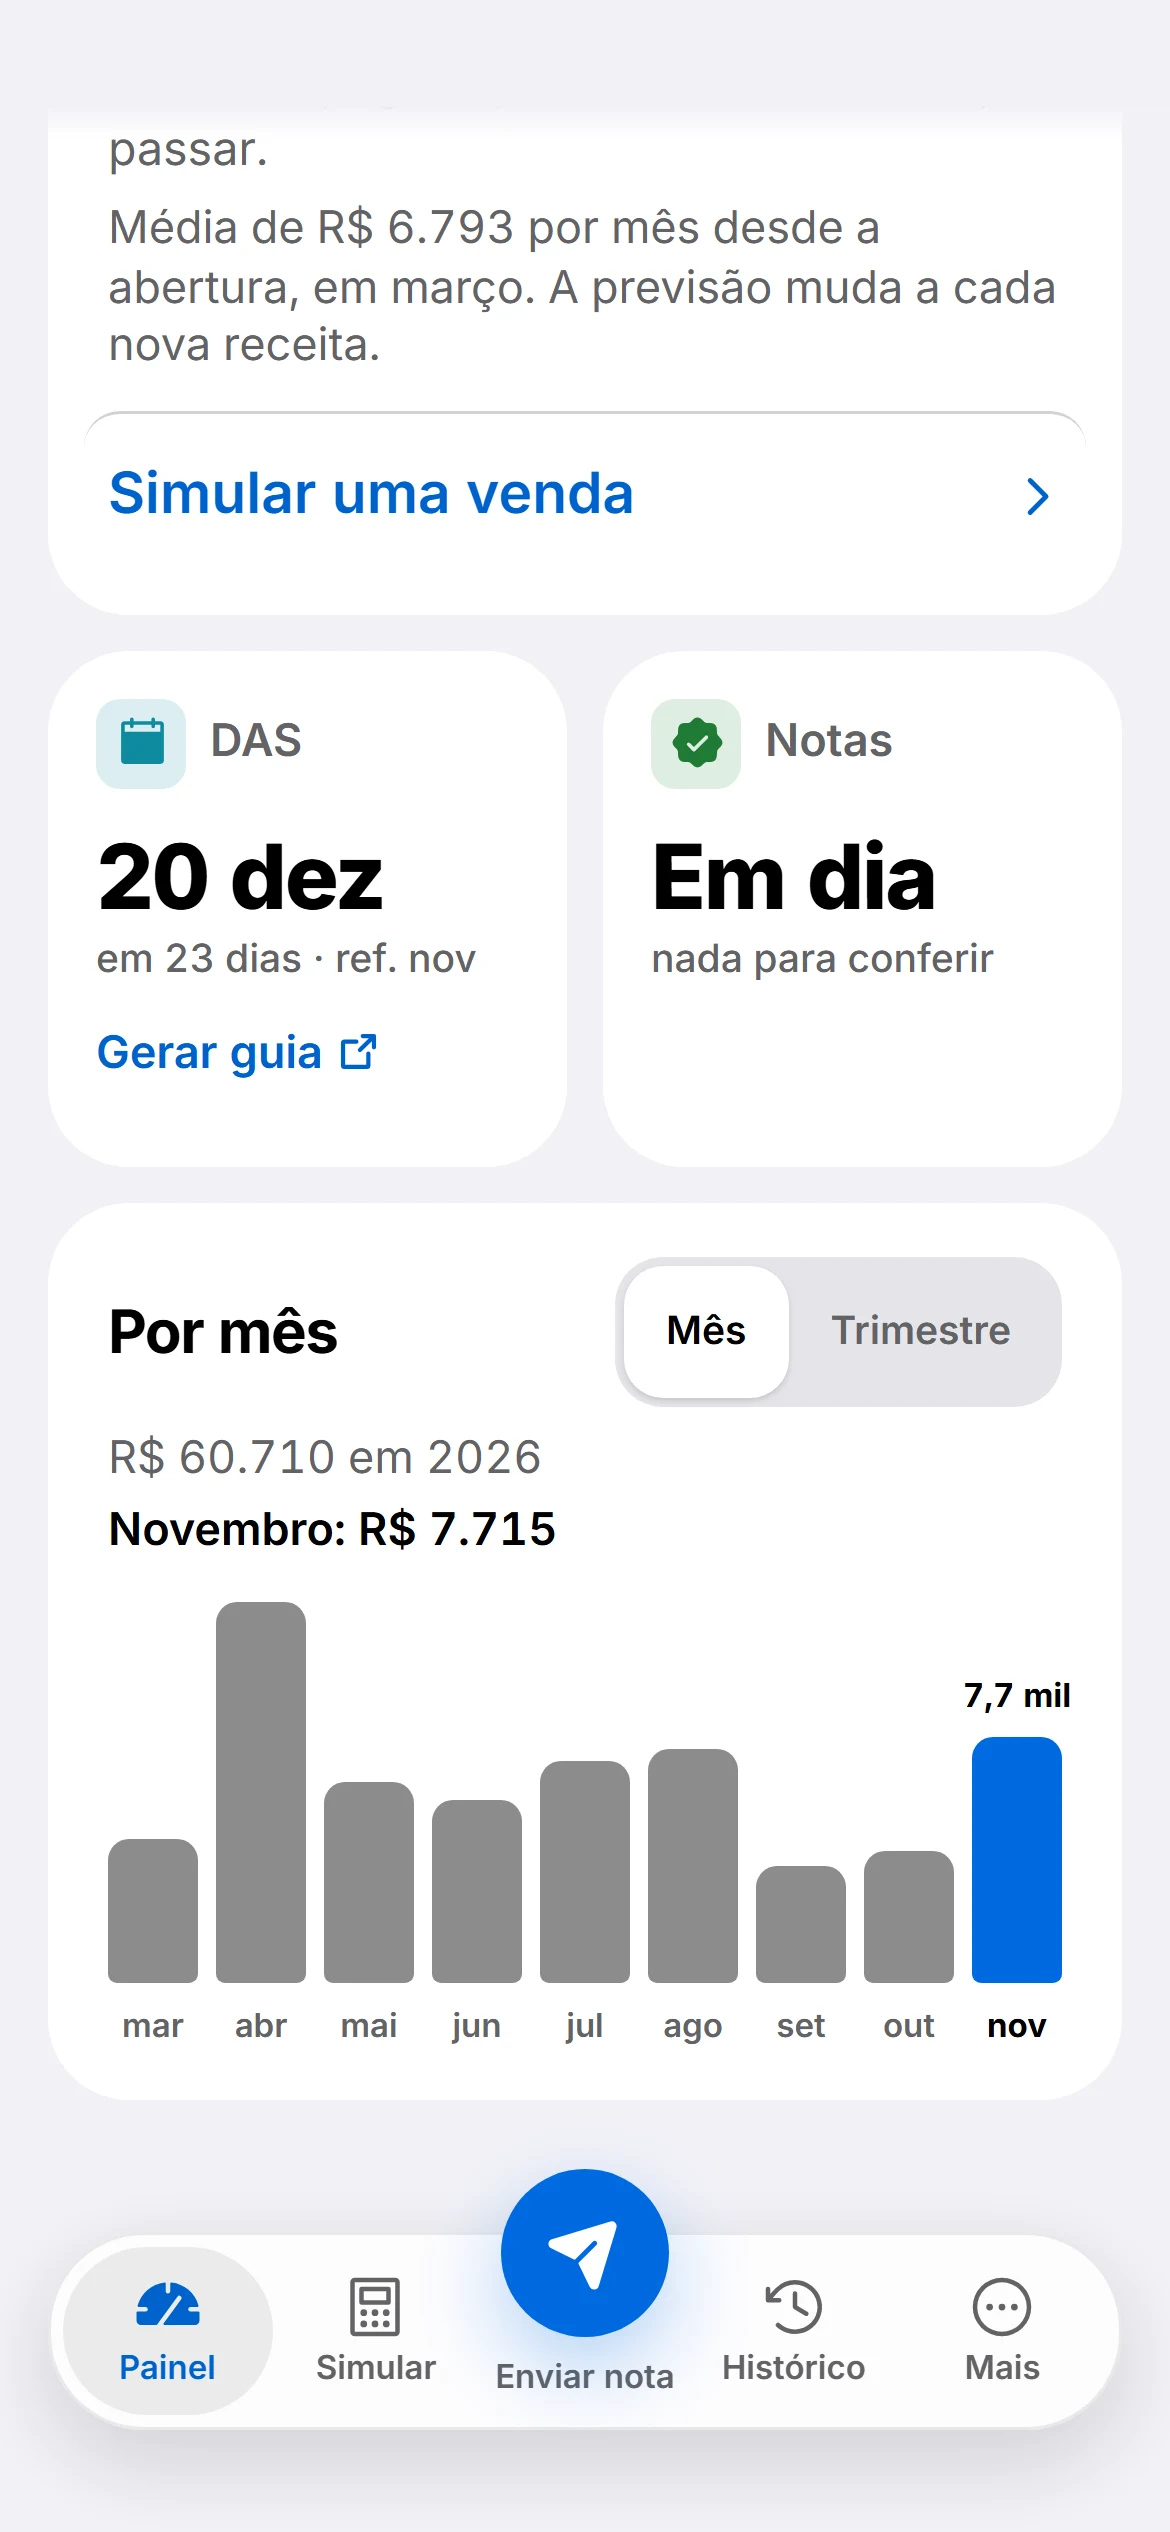
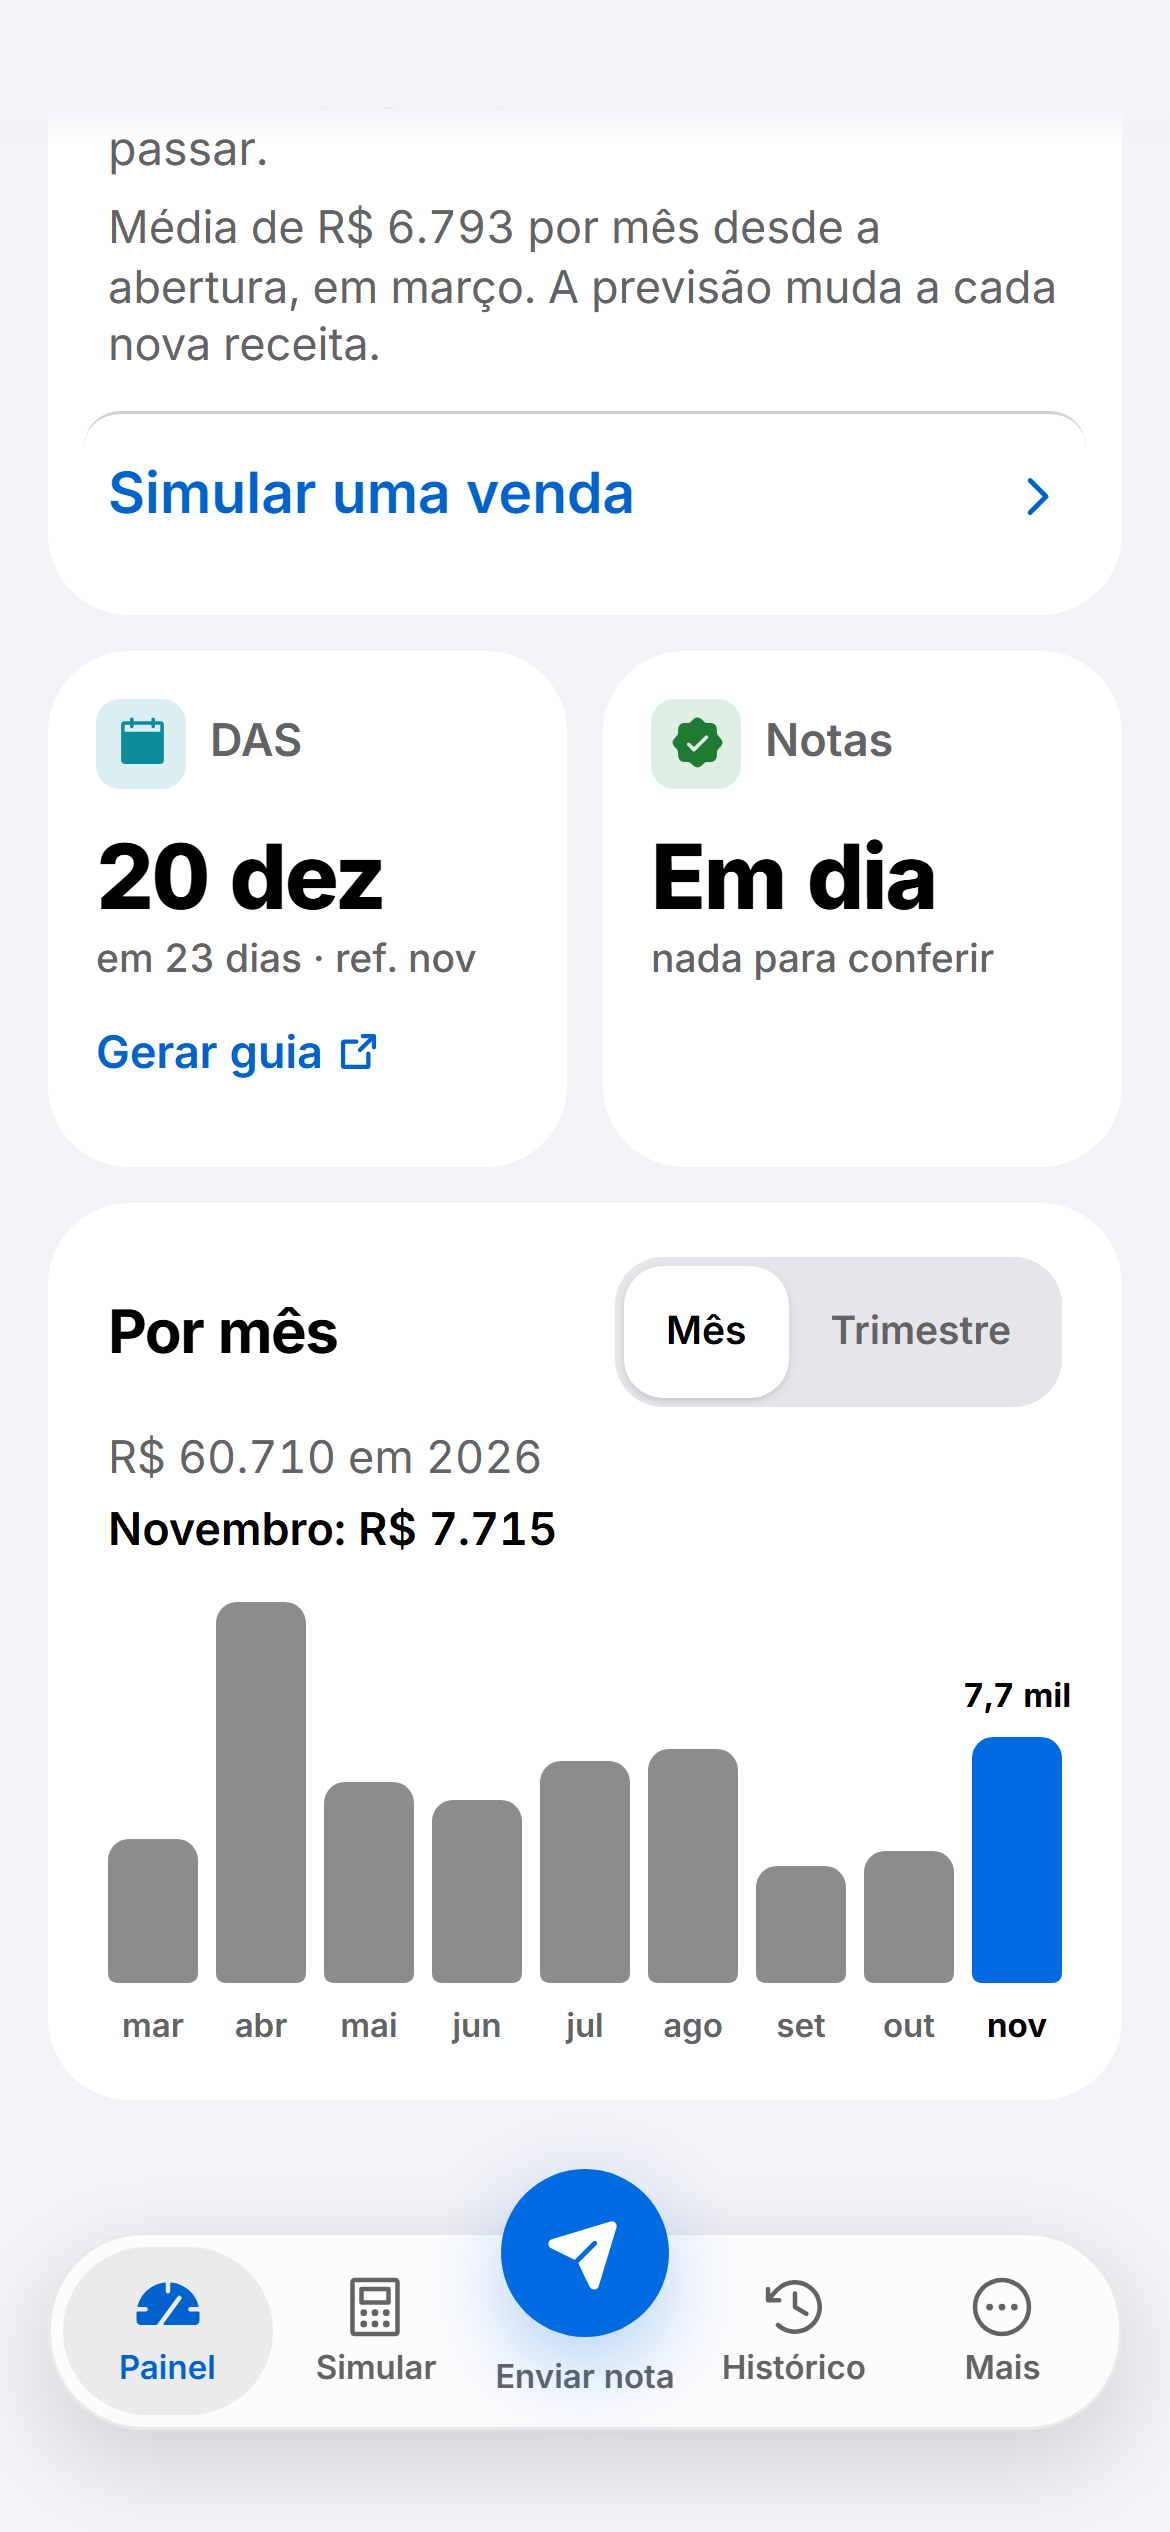
fix(site): telas do app mais nítidas e celular sem barra de status
As capturas perdiam qualidade duas vezes: o script gravava WebP com perda
(qualidade 88) e o Next recomprimia ao servir, o que borrava o texto miúdo.
Agora o script grava WebP sem perda, pelo sharp que já vem com o Next, e o
site serve o arquivo como está, em 3x. A hora, o sinal, o Wi-Fi e a bateria
saem da moldura; ficam só a câmera e o traço de início. A limpeza da pasta
temporária do navegador também deixa de derrubar o script no Windows.

diff --git a/site/src/components/phone.tsx b/site/src/components/phone.tsx
@@ -2,46 +2,12 @@ import Image, { type StaticImageData } from "next/image";
 
 /**
  * As capturas são feitas com as áreas seguras de um iPhone de 390 x 844 pontos (scripts/capturar-telas.mjs):
- * o app já deixa 47 pt livres no alto e 34 pt embaixo. Aqui a moldura ocupa essas folgas com a barra de status
- * e o traço de início, como num celular de verdade. As medidas são em `cqw` (largura da tela), para a barra
- * crescer e encolher junto com a captura.
+ * o app já deixa 47 pt livres no alto, onde fica a câmera, e 34 pt embaixo, onde fica o traço de início.
+ * As medidas são em `cqw` (largura da tela), para crescer e encolher junto com a captura.
+ *
+ * As imagens são WebP sem perda, em 3x: o site as serve como estão (`unoptimized`), sem recomprimir,
+ * para o texto miúdo das telas ficar nítido.
  */
-const STATUS = `${(47 / 390) * 100}cqw`;
-
-/** Hora, sinal, Wi-Fi e bateria, desenhados em SVG (sem marca de aparelho). */
-function StatusBar() {
-  return (
-    <div
-      aria-hidden="true"
-      style={{ height: STATUS }}
-      className="absolute inset-x-0 top-0 flex items-center justify-between px-[8.5cqw] pt-[1.6cqw] text-[4.1cqw] font-semibold tracking-[-0.01em]"
-    >
-      <span className="tabular">9:41</span>
-      <span className="flex items-center gap-[1.5cqw]">
-        {/* sinal */}
-        <svg viewBox="0 0 18 12" className="h-[3cqw] w-auto" fill="currentColor">
-          <rect x="0" y="8" width="3" height="4" rx="0.8" />
-          <rect x="5" y="5.5" width="3" height="6.5" rx="0.8" />
-          <rect x="10" y="3" width="3" height="9" rx="0.8" />
-          <rect x="15" y="0" width="3" height="12" rx="0.8" />
-        </svg>
-        {/* Wi-Fi */}
-        <svg viewBox="0 0 16 12" className="h-[3cqw] w-auto" fill="currentColor">
-          <path d="M8 2.4c2.3 0 4.4.9 6 2.4l1.3-1.4A10.6 10.6 0 0 0 8 .4 10.6 10.6 0 0 0 .7 3.4L2 4.8a8.6 8.6 0 0 1 6-2.4Z" />
-          <path d="M8 6c1.3 0 2.5.5 3.4 1.3l1.3-1.4A7 7 0 0 0 8 4a7 7 0 0 0-4.7 1.9l1.3 1.4C5.5 6.5 6.7 6 8 6Z" />
-          <path d="M8 9.4c.5 0 .9.2 1.2.5L8 11.6 6.8 9.9c.3-.3.7-.5 1.2-.5Z" />
-        </svg>
-        {/* bateria */}
-        <svg viewBox="0 0 27 13" className="h-[3.2cqw] w-auto">
-          <rect x="0.5" y="0.5" width="23" height="12" rx="3.5" fill="none" stroke="currentColor" strokeOpacity="0.4" />
-          <rect x="2" y="2" width="16" height="9" rx="2" fill="currentColor" />
-          <path d="M25 4.5v4c.8-.3 1.5-1.1 1.5-2s-.7-1.7-1.5-2Z" fill="currentColor" fillOpacity="0.4" />
-        </svg>
-      </span>
-    </div>
-  );
-}
-
 /**
  * Moldura de celular desenhada em CSS para as capturas reais do app.
  * Genérica de propósito (sem marca de aparelho): o produto é a tela, não o telefone.
@@ -50,7 +16,6 @@ export function Phone({
   src,
   alt,
   preload = false,
-  sizes = "(min-width: 1024px) 340px, (min-width: 640px) 300px, 64vw",
   className = "",
   tone = "dark",
   screen = "dark",
@@ -58,11 +23,10 @@ export function Phone({
   src: StaticImageData;
   alt: string;
   preload?: boolean;
-  sizes?: string;
   className?: string;
   /** Cor do aro: escuro sobre palco claro também funciona; claro é para variar entre mockups. */
   tone?: "dark" | "light";
-  /** Tema da captura: decide a cor da barra de status e do traço de início. */
+  /** Tema da captura: decide a cor do traço de início. */
   screen?: "dark" | "light";
 }) {
   const frame =
@@ -70,7 +34,6 @@ export function Phone({
       ? "bg-[linear-gradient(145deg,#3a3a3e,#151517_40%,#2a2a2d)] shadow-[inset_0_0_0_1.5px_rgb(255_255_255/0.14),0_0_0_1px_rgb(0_0_0/0.6)]"
       : "bg-[linear-gradient(145deg,#f4f4f6,#c9c9ce_45%,#ececef)] shadow-[inset_0_0_0_1.5px_rgb(255_255_255/0.7),0_0_0_1px_rgb(0_0_0/0.12)]";
   const button = tone === "dark" ? "bg-[#2a2a2d]" : "bg-[#c9c9ce]";
-  const ink = screen === "dark" ? "text-white" : "text-black";
   return (
     <figure className={`relative ${className}`}>
       {/* botões laterais */}
@@ -80,18 +43,16 @@ export function Phone({
       {/* aro: um pouco mais grosso que a borda da tela, como num aparelho de verdade */}
       <div className={`rounded-[16%/7.4%] p-[4.2%] ${frame}`}>
         {/* a tela: 390 x 844, a proporção da captura */}
-        <div className={`@container relative overflow-hidden rounded-[12.5%/5.8%] bg-black ${ink}`}>
+        <div className={`@container relative overflow-hidden rounded-[12.5%/5.8%] bg-black`}>
           <Image
             src={src}
             alt={alt}
-            sizes={sizes}
-            quality={90}
+            unoptimized
             preload={preload}
             placeholder="blur"
             className="block h-auto w-full"
           />
-          <StatusBar />
-          {/* câmera frontal: uma pílula discreta no meio da barra de status */}
+          {/* câmera frontal: uma pílula discreta na folga do alto da tela */}
           <span
             aria-hidden="true"
             style={{ top: `${(11 / 390) * 100}cqw` }}

diff --git a/site/src/components/features.tsx b/site/src/components/features.tsx
@@ -31,7 +31,7 @@ type Chapter = {
   body: string;
   note?: string;
   shot: StaticImageData;
-  /** Tema da captura, para a barra de status do celular. */
+  /** Tema da captura, para a cor do traço de início do celular. */
   screen: "dark" | "light";
   alt: string;
 };
@@ -174,7 +174,7 @@ export function Features() {
                     exit={{ opacity: 0, y: -20, scale: 0.98 }}
                     transition={{ duration: 0.6, ease: EASE }}
                   >
-                    <Phone src={chapter.shot} screen={chapter.screen} alt={chapter.alt} sizes="320px" className="drop-shadow-[0_50px_70px_rgb(0_0_0/0.25)]" />
+                    <Phone src={chapter.shot} screen={chapter.screen} alt={chapter.alt} className="drop-shadow-[0_50px_70px_rgb(0_0_0/0.25)]" />
                   </motion.div>
                 </AnimatePresence>
                 {/* onde estamos: um ponto por capítulo */}

diff --git a/site/next.config.ts b/site/next.config.ts
@@ -19,7 +19,8 @@ const csp = [
 const nextConfig: NextConfig = {
   poweredByHeader: false,
   images: {
-    // As capturas têm texto miúdo: 90 deixa as letras nítidas; 75 é o padrão para o resto.
+    // As capturas do app não passam por aqui: são WebP sem perda servidas como estão (`unoptimized` em phone.tsx).
+    // 90 fica para imagens com texto miúdo; 75 é o padrão para o resto.
     qualities: [75, 90],
   },
   async headers() {

diff --git a/site/README.md b/site/README.md
@@ -62,10 +62,11 @@ npm run capturas -- http://localhost:3000
 npm run capturas -- https://teto-omega.vercel.app historico-claro   # só as telas com esses nomes
 ```
 
-O script abre o Edge ou o Chrome instalado, emula um iPhone (390 × 844 a 3x) e grava WebP em `src/assets/telas/`.
-Ele simula as áreas seguras do iPhone (47 pt no alto, 34 pt embaixo), e o app se afasta delas como num aparelho de
-verdade. A moldura (`src/components/phone.tsx`) desenha por cima a barra de status (hora, sinal, bateria) e o traço
-de início. Por isso cada `<Phone>` recebe `screen="dark"` ou `"light"`, o tema da captura.
+O script abre o Edge ou o Chrome instalado, emula um iPhone (390 × 844 a 3x) e grava WebP **sem perda** em
+`src/assets/telas/` (pelo `sharp`, que vem com o Next). O site serve esses arquivos como estão, sem recomprimir, para o
+texto das telas ficar nítido. Ele simula as áreas seguras do iPhone (47 pt no alto, 34 pt embaixo), e o app se afasta
+delas como num aparelho de verdade. A moldura (`src/components/phone.tsx`) põe a câmera na folga de cima e o traço de
+início na de baixo. Por isso cada `<Phone>` recebe `screen="dark"` ou `"light"`, o tema da captura.
 **Só dados fictícios**: aponte para o perfil de demonstração. A tela de avisos fica de fora de propósito, porque
 mostra parte do e-mail cadastrado. Confira cada captura antes de commitar. Os números da demonstração mudam com o
 tempo: ao recapturar, atualize os textos alternativos e as notas que citam valores (`hero.tsx`, `features.tsx`).
